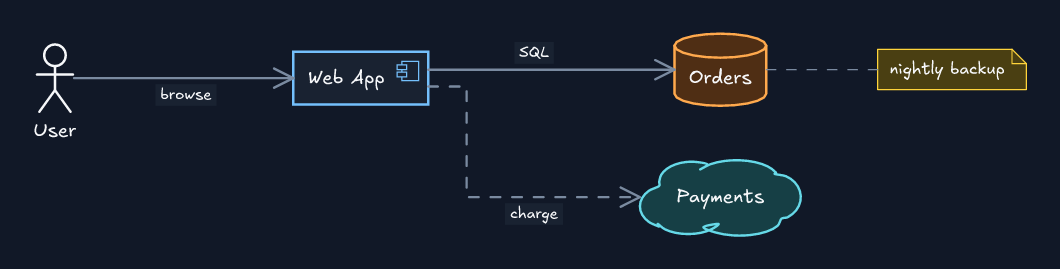
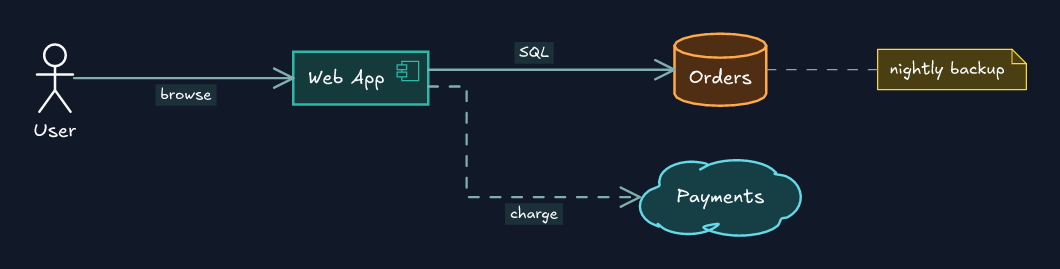
Add Grethel Labs Light and strengthen teal accents

diff --git a/integrations/obsidian/src/settings_tab.js b/integrations/obsidian/src/settings_tab.js
@@ -14,6 +14,8 @@ const THEME_LABELS = {
   mono: "Monochrome",
   dark: "Dark",
   blueprint: "Blueprint",
+  "grethel-labs-dark": "Grethel Labs Dark",
+  "grethel-labs-light": "Grethel Labs Light",
 };
 
 export class ExcaliplantSettingTab extends PluginSettingTab {

diff --git a/README.md b/README.md
@@ -168,7 +168,7 @@ Each diagram type is a small module with four hooks — `detect`, `parse`, `layo
 
 ## Themes
 
-Pick a theme with `--theme` / `{ theme }`, or let PlantUML's `!theme` choose the closest match. Available: `sketch`, `plain`, `hachure`, `mono`, `dark`, `blueprint`, `grethel-labs-dark`, `pastel-dark`, `pastel-light`, `transparent-dark`, `transparent-light`. Add `--clean` / `{ sketch: false }` for straight lines.
+Pick a theme with `--theme` / `{ theme }`, or let PlantUML's `!theme` choose the closest match. Available: `sketch`, `plain`, `hachure`, `mono`, `dark`, `blueprint`, `grethel-labs-dark`, `grethel-labs-light`, `pastel-dark`, `pastel-light`, `transparent-dark`, `transparent-light`. Add `--clean` / `{ sketch: false }` for straight lines.
 
 <table>
   <tr>
@@ -183,10 +183,11 @@ Pick a theme with `--theme` / `{ theme }`, or let PlantUML's `!theme` choose the
   </tr>
   <tr>
     <td align="center"><img src="docs/assets/theme-grethel-labs-dark.png" width="250" alt="grethel-labs-dark theme" /><br /><code>grethel-labs-dark</code></td>
+    <td align="center"><img src="docs/assets/theme-grethel-labs-light.png" width="250" alt="grethel-labs-light theme" /><br /><code>grethel-labs-light</code></td>
     <td align="center"><img src="docs/assets/theme-pastel-dark.png" width="250" alt="pastel-dark theme" /><br /><code>pastel-dark</code></td>
-    <td align="center"><img src="docs/assets/theme-pastel-light.png" width="250" alt="pastel-light theme" /><br /><code>pastel-light</code></td>
   </tr>
   <tr>
+    <td align="center"><img src="docs/assets/theme-pastel-light.png" width="250" alt="pastel-light theme" /><br /><code>pastel-light</code></td>
     <td align="center"><img src="docs/assets/theme-transparent-dark.png" width="250" alt="transparent-dark theme" /><br /><code>transparent-dark</code></td>
     <td align="center"><img src="docs/assets/theme-transparent-light.png" width="250" alt="transparent-light theme" /><br /><code>transparent-light</code></td>
   </tr>

diff --git a/integrations/claude-plugin/skills/excaliplant/SKILL.md b/integrations/claude-plugin/skills/excaliplant/SKILL.md
@@ -56,7 +56,7 @@ Keep the diagram short (a few dozen lines) so the link stays usable; for a longe
 
 ## Look and feel
 
-Themes: `sketch`, `plain`, `hachure`, `mono`, `dark`, `blueprint`, `grethel-labs-dark`, `pastel-dark`, `pastel-light`, `transparent-dark`, `transparent-light`. Pass `-t <theme>`, for example `-t blueprint` for a technical look or `-t dark` for dark backgrounds. `--clean` draws straight instead of hand-drawn strokes. Output is deterministic: the same source always gives the same bytes (`--seed` changes the wobble).
+Themes: `sketch`, `plain`, `hachure`, `mono`, `dark`, `blueprint`, `grethel-labs-dark`, `grethel-labs-light`, `pastel-dark`, `pastel-light`, `transparent-dark`, `transparent-light`. Pass `-t <theme>`, for example `-t blueprint` for a technical look or `-t dark` for dark backgrounds. `--clean` draws straight instead of hand-drawn strokes. Output is deterministic: the same source always gives the same bytes (`--seed` changes the wobble).
 
 ## Writing good PlantUML
 

diff --git a/integrations/codex-plugin/skills/excaliplant/SKILL.md b/integrations/codex-plugin/skills/excaliplant/SKILL.md
@@ -56,7 +56,7 @@ Keep the diagram short (a few dozen lines) so the link stays usable; for a longe
 
 ## Look and feel
 
-Themes: `sketch`, `plain`, `hachure`, `mono`, `dark`, `blueprint`, `grethel-labs-dark`, `pastel-dark`, `pastel-light`, `transparent-dark`, `transparent-light`. Pass `-t <theme>`, for example `-t blueprint` for a technical look or `-t dark` for dark backgrounds. `--clean` draws straight instead of hand-drawn strokes. Output is deterministic: the same source always gives the same bytes (`--seed` changes the wobble).
+Themes: `sketch`, `plain`, `hachure`, `mono`, `dark`, `blueprint`, `grethel-labs-dark`, `grethel-labs-light`, `pastel-dark`, `pastel-light`, `transparent-dark`, `transparent-light`. Pass `-t <theme>`, for example `-t blueprint` for a technical look or `-t dark` for dark backgrounds. `--clean` draws straight instead of hand-drawn strokes. Output is deterministic: the same source always gives the same bytes (`--seed` changes the wobble).
 
 ## Writing good PlantUML
 

diff --git a/skills/excaliplant/SKILL.md b/skills/excaliplant/SKILL.md
@@ -56,7 +56,7 @@ Keep the diagram short (a few dozen lines) so the link stays usable; for a longe
 
 ## Look and feel
 
-Themes: `sketch`, `plain`, `hachure`, `mono`, `dark`, `blueprint`, `grethel-labs-dark`, `pastel-dark`, `pastel-light`, `transparent-dark`, `transparent-light`. Pass `-t <theme>`, for example `-t blueprint` for a technical look or `-t dark` for dark backgrounds. `--clean` draws straight instead of hand-drawn strokes. Output is deterministic: the same source always gives the same bytes (`--seed` changes the wobble).
+Themes: `sketch`, `plain`, `hachure`, `mono`, `dark`, `blueprint`, `grethel-labs-dark`, `grethel-labs-light`, `pastel-dark`, `pastel-light`, `transparent-dark`, `transparent-light`. Pass `-t <theme>`, for example `-t blueprint` for a technical look or `-t dark` for dark backgrounds. `--clean` draws straight instead of hand-drawn strokes. Output is deterministic: the same source always gives the same bytes (`--seed` changes the wobble).
 
 ## Writing good PlantUML
 

diff --git a/integrations/claude-plugin/skills/excaliplant/references/cli.md b/integrations/claude-plugin/skills/excaliplant/references/cli.md
@@ -25,7 +25,7 @@ Options:
   -o, --output <file>       Output file (format from extension unless -f is given).
                             With --all, "{n}" in the name is replaced by the block number.
   -f, --format <fmt>        excalidraw | svg | png (default: from extension, else excalidraw)
-  -t, --theme <name>        sketch | plain | hachure | mono | dark | blueprint | grethel-labs-dark | pastel-dark | pastel-light | transparent-dark | transparent-light (default: sketch)
+  -t, --theme <name>        sketch | plain | hachure | mono | dark | blueprint | grethel-labs-dark | grethel-labs-light | pastel-dark | pastel-light | transparent-dark | transparent-light (default: sketch)
       --clean               Clean strokes instead of the hand-drawn look
       --width <px>          PNG width in pixels (16–16000)
       --scale <n>           PNG scale relative to the SVG size (default 2)

diff --git a/integrations/codex-plugin/skills/excaliplant/references/cli.md b/integrations/codex-plugin/skills/excaliplant/references/cli.md
@@ -25,7 +25,7 @@ Options:
   -o, --output <file>       Output file (format from extension unless -f is given).
                             With --all, "{n}" in the name is replaced by the block number.
   -f, --format <fmt>        excalidraw | svg | png (default: from extension, else excalidraw)
-  -t, --theme <name>        sketch | plain | hachure | mono | dark | blueprint | grethel-labs-dark | pastel-dark | pastel-light | transparent-dark | transparent-light (default: sketch)
+  -t, --theme <name>        sketch | plain | hachure | mono | dark | blueprint | grethel-labs-dark | grethel-labs-light | pastel-dark | pastel-light | transparent-dark | transparent-light (default: sketch)
       --clean               Clean strokes instead of the hand-drawn look
       --width <px>          PNG width in pixels (16–16000)
       --scale <n>           PNG scale relative to the SVG size (default 2)

diff --git a/skills/excaliplant/references/cli.md b/skills/excaliplant/references/cli.md
@@ -25,7 +25,7 @@ Options:
   -o, --output <file>       Output file (format from extension unless -f is given).
                             With --all, "{n}" in the name is replaced by the block number.
   -f, --format <fmt>        excalidraw | svg | png (default: from extension, else excalidraw)
-  -t, --theme <name>        sketch | plain | hachure | mono | dark | blueprint | grethel-labs-dark | pastel-dark | pastel-light | transparent-dark | transparent-light (default: sketch)
+  -t, --theme <name>        sketch | plain | hachure | mono | dark | blueprint | grethel-labs-dark | grethel-labs-light | pastel-dark | pastel-light | transparent-dark | transparent-light (default: sketch)
       --clean               Clean strokes instead of the hand-drawn look
       --width <px>          PNG width in pixels (16–16000)
       --scale <n>           PNG scale relative to the SVG size (default 2)

diff --git a/CHANGELOG.md b/CHANGELOG.md
@@ -8,6 +8,7 @@ and the [GitHub releases](https://github.com/grethel-labs/excaliplant/releases).
 
 ### Added
 
+- Add Grethel Labs Light and use coordinated teal outlines, fills, and connectors in both Grethel Labs themes.
 - The playground opens local PlantUML files and folders, resolves their includes in the browser, and exports diagrams together or individually from a carousel.
 - VS Code can switch PlantUML files between the source and a live preview in the same editor group.
 - Document the shared SVG asset workflow and CI checks for Markdown on GitHub, GitLab, and Forgejo.
